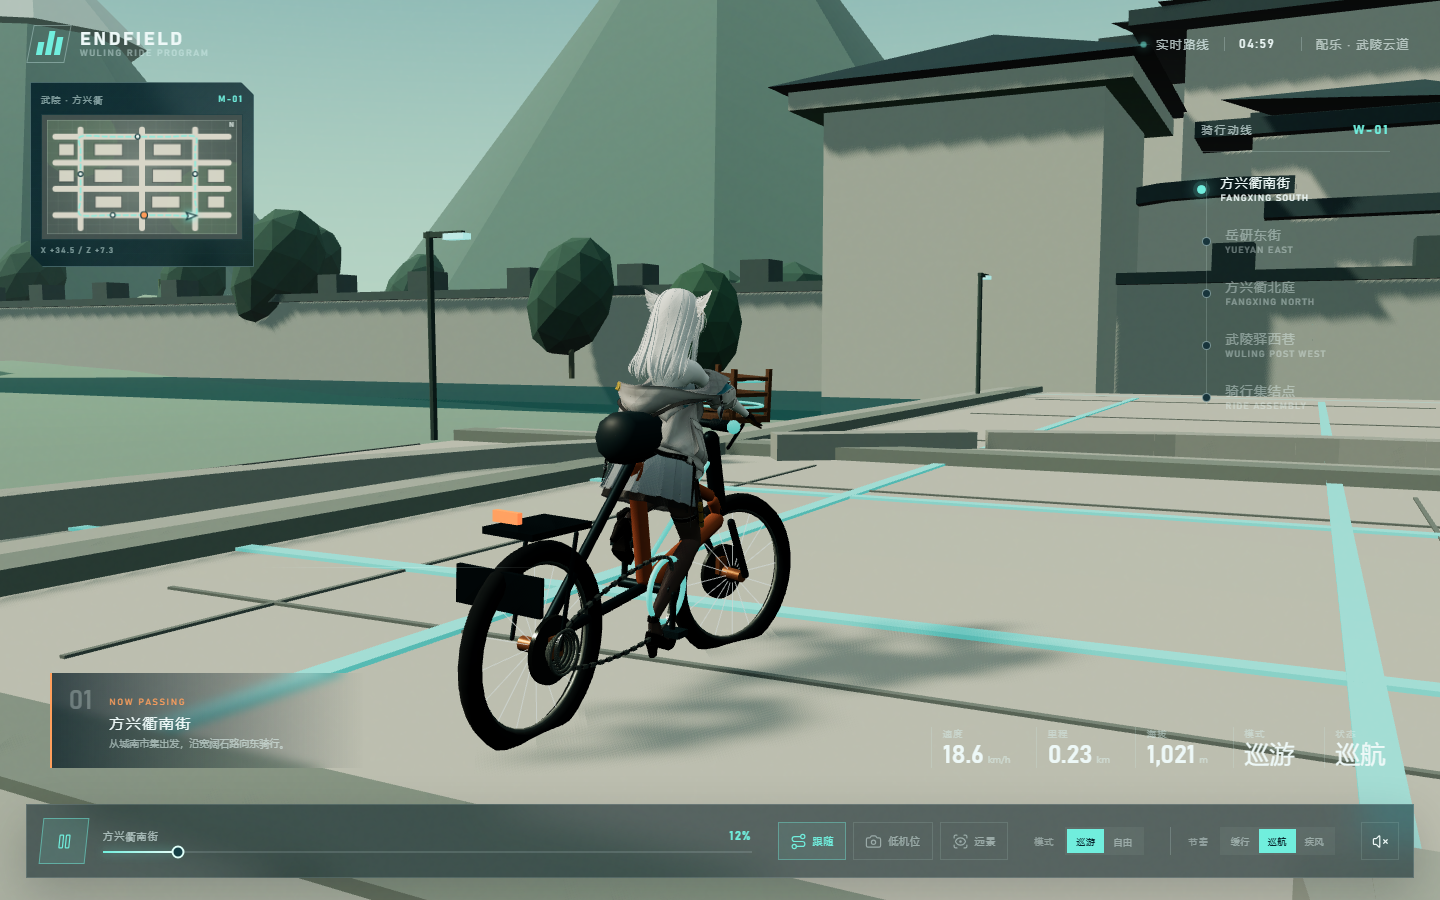
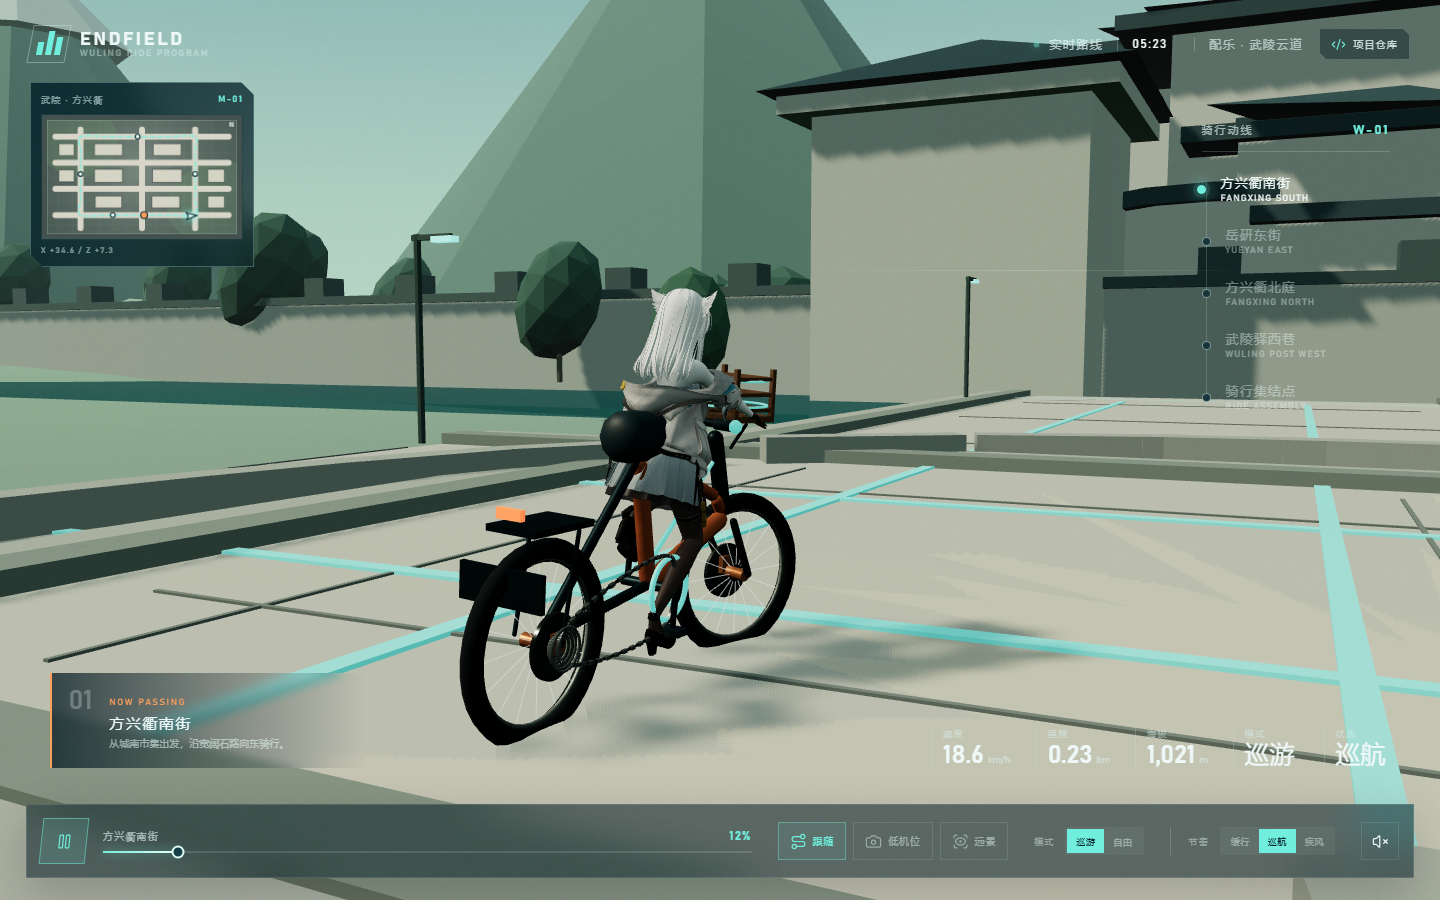
Deploy Wuling bike experience to GitHub Pages

diff --git a/src/style.css b/src/style.css
@@ -227,6 +227,45 @@ button {
   letter-spacing: 0.12em;
 }
 
+.topbar-actions {
+  display: flex;
+  align-items: center;
+  gap: 16px;
+  pointer-events: auto;
+}
+
+.repo-link {
+  display: inline-flex;
+  align-items: center;
+  gap: 7px;
+  min-height: 32px;
+  padding: 0 11px;
+  border: 1px solid rgba(202, 241, 237, 0.24);
+  color: rgba(232, 249, 247, 0.82);
+  background: rgba(5, 25, 32, 0.42);
+  font-family: var(--font-display);
+  font-size: 10px;
+  letter-spacing: 0.12em;
+  text-decoration: none;
+  clip-path: polygon(0 0, calc(100% - 8px) 0, 100% 8px, 100% 100%, 8px 100%, 0 calc(100% - 8px));
+  backdrop-filter: blur(12px);
+  transition: border-color 180ms ease, color 180ms ease, background 180ms ease;
+}
+
+.repo-link:hover,
+.repo-link:focus-visible {
+  border-color: rgba(112, 238, 221, 0.68);
+  color: #ffffff;
+  background: rgba(12, 54, 61, 0.72);
+  outline: none;
+}
+
+.repo-link svg {
+  width: 15px;
+  height: 15px;
+  color: var(--cyan);
+}
+
 .minimap-panel {
   position: fixed;
   z-index: 9;
@@ -1028,6 +1067,21 @@ button {
   .telemetry,
   .hero-slogan,
   .hero-subtitle {
+    display: none;
+  }
+
+  .topbar-actions {
+    gap: 0;
+  }
+
+  .repo-link {
+    width: 38px;
+    min-height: 36px;
+    justify-content: center;
+    padding: 0;
+  }
+
+  .repo-link span {
     display: none;
   }
 

diff --git a/index.html b/index.html
@@ -40,13 +40,25 @@
             <small>WULING RIDE PROGRAM</small>
           </span>
         </a>
-        <div class="topbar-status">
-          <span class="live-dot"></span>
-          <span>实时路线</span>
-          <span class="status-divider"></span>
-          <time id="local-time">07:30</time>
-          <span class="status-divider"></span>
-          <span class="track-title">配乐 · 武陵云道</span>
+        <div class="topbar-actions">
+          <div class="topbar-status">
+            <span class="live-dot"></span>
+            <span>实时路线</span>
+            <span class="status-divider"></span>
+            <time id="local-time">07:30</time>
+            <span class="status-divider"></span>
+            <span class="track-title">配乐 · 武陵云道</span>
+          </div>
+          <a
+            class="repo-link"
+            href="https://github.com/SusieGlitter/perlica"
+            target="_blank"
+            rel="noreferrer"
+            aria-label="打开风起武陵 GitHub 仓库"
+          >
+            <i data-lucide="code-2" aria-hidden="true"></i>
+            <span>项目仓库</span>
+          </a>
         </div>
       </header>
 

diff --git a/src/main.js b/src/main.js
@@ -9,6 +9,7 @@ import {
   ArrowDown,
   CircleStop,
   Gauge,
+  Code2,
   Pause,
   Play,
   Route,
@@ -70,6 +71,7 @@ createIcons({
     ArrowDown,
     CircleStop,
     Gauge,
+    Code2,
     ScanEye,
     Volume2,
     VolumeX,
@@ -265,7 +267,7 @@ function loadModel() {
 
   const loader = new GLTFLoader(manager);
   loader.load(
-    "/assets/models/perlica_rigged.glb",
+    `${import.meta.env.BASE_URL}assets/models/perlica_rigged.glb`,
     async (gltf) => {
       rider = await loadRider(gltf, bicycle);
       updateLoading(100);
@@ -300,6 +302,7 @@ function setIcon(button, name) {
       ArrowDown,
       CircleStop,
       Gauge,
+      Code2,
       ScanEye,
       Volume2,
       VolumeX,
@@ -1163,7 +1166,7 @@ function updateWorldLabels() {
   }
 }
 
-const ambientSound = new RideMusic("/assets/audio/wuling-cloudway.wav");
+const ambientSound = new RideMusic(`${import.meta.env.BASE_URL}assets/audio/wuling-cloudway.wav`);
 
 function updateClock() {
   const now = new Date();

diff --git a/vite.config.js b/vite.config.js
@@ -1,0 +1,5 @@
+import { defineConfig } from "vite";
+
+export default defineConfig({
+  base: process.env.GITHUB_ACTIONS ? "/perlica/" : "/",
+});

diff --git a/README.md b/README.md
@@ -20,6 +20,12 @@ npm run preview
 
 `dist/` 是完整静态产物，可将该目录部署到任意静态站点。
 
+仓库已配置 GitHub Pages 自动部署。推送到 `main` 后，工作流会构建 `dist/` 并发布到：
+
+https://susieglitter.github.io/perlica/
+
+页面右上角的“项目仓库”入口指向 https://github.com/SusieGlitter/perlica 。
+
 `preview/desktop.png` 与 `preview/mobile.png` 是本地验收截图。
 
 启动开发服务器后，可运行 `npm run verify` 自动检查传动齿比、左右转向、倒车脚部动作、建筑碰撞、巡航回归、音频交付和桌面/移动端截图。
